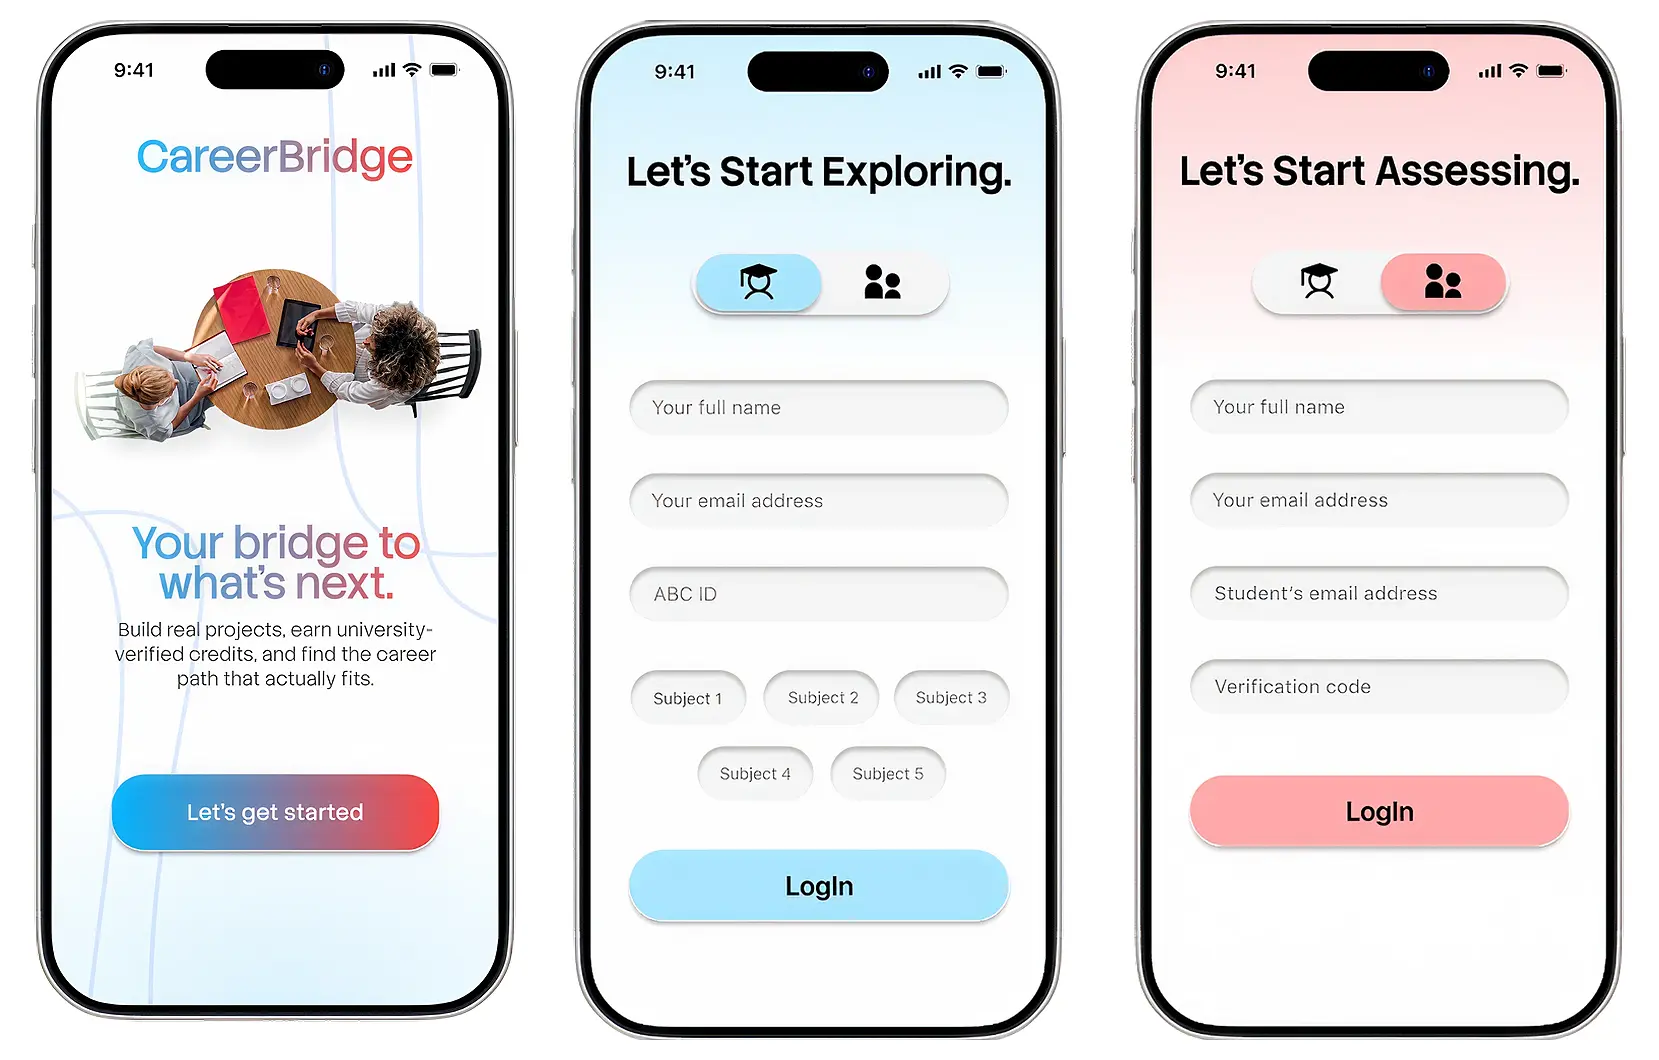
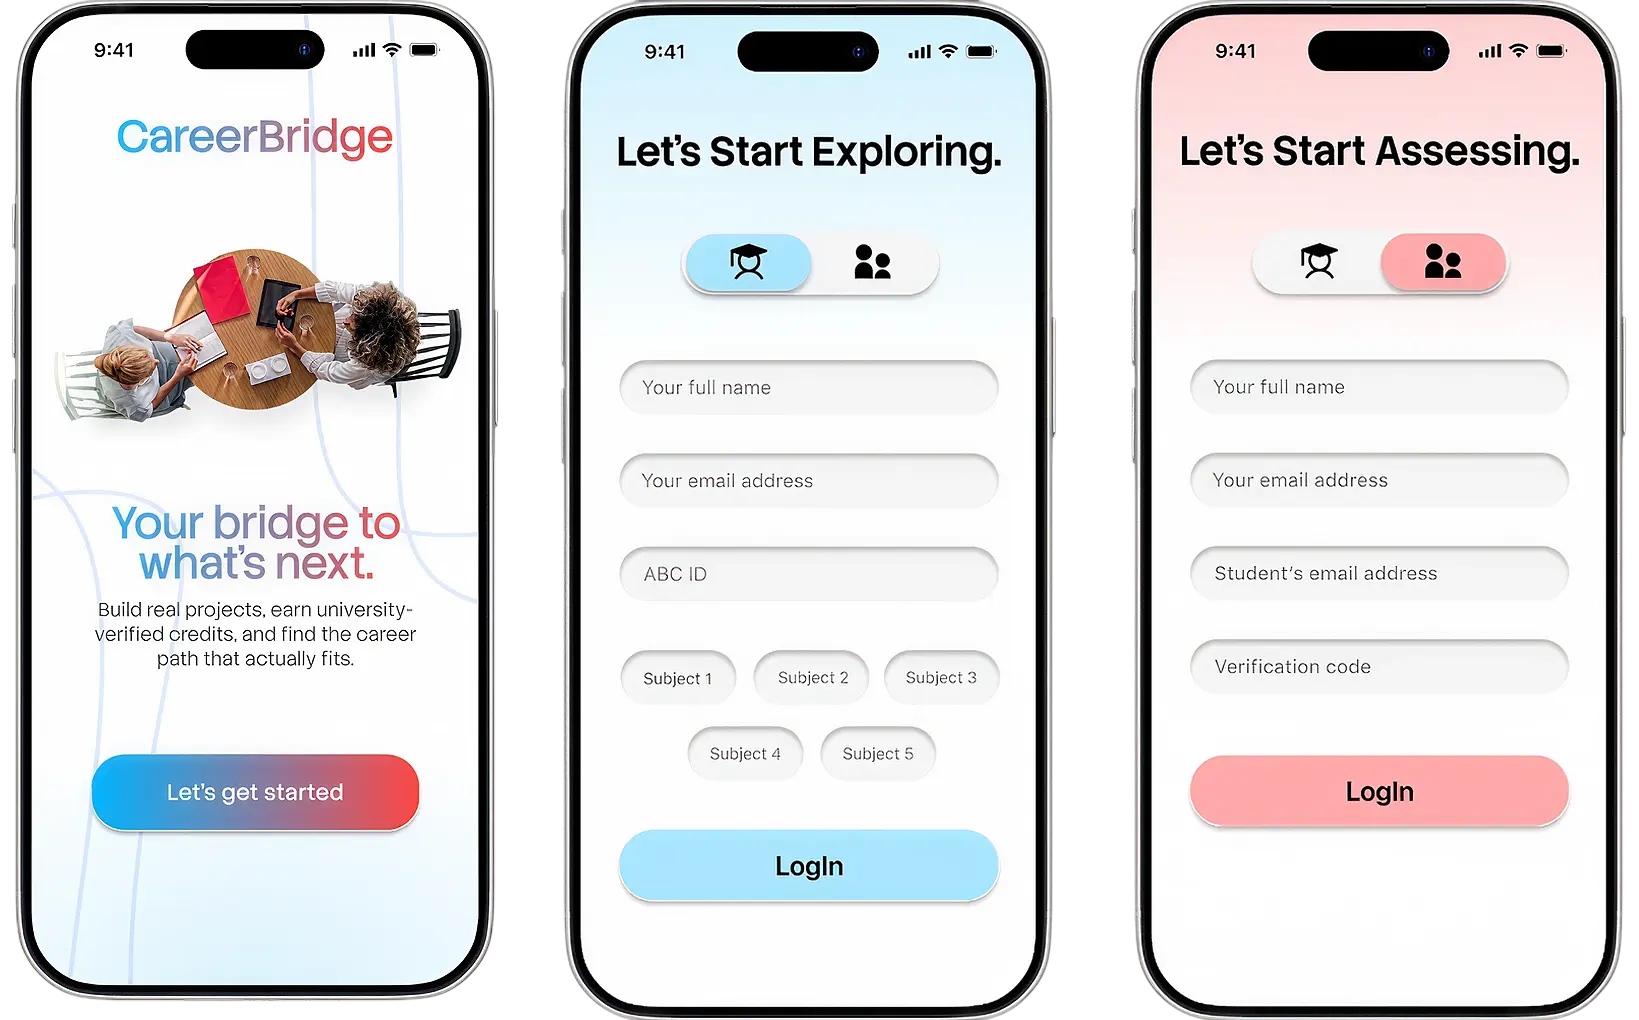
Fix onboarding color collision, de-Qurate the core-mechanism border, resize single phones
The onboarding composite had a white gap panel sitting between a
white, a blue, and a pink screen, reading as three competing colors
instead of one presentation. Recomposited with a transparent
background so the card-warm figure tint shows through uniformly
instead.

The core-mechanism callout used Qurate's exact full box-outline
treatment. Replaced it with a top accent bar for this project,
matching the quote-cards' own left-bar accent language instead of
reusing another case study's mark.

Single-phone screens (pathways, curriculum, progress, parent) were
stretched to fill the full column like desktop screenshots. Capped
them to match the per-phone size in the three-up composite (~260px)
so content stays legible at a consistent scale across the section.

Claude-Session: https://claude.ai/code/session_01ABoxSrGLR5kJVAU4Q3hr6i

diff --git a/src/content/work/conversations-before-college.md b/src/content/work/conversations-before-college.md
@@ -138,14 +138,14 @@ The first screen after login isn't a subject picker. It's eight situational ques
 <figcaption>A quick run through CareerBridge end to end before the screen-by-screen breakdown below.</figcaption>
 </figure>
 
-<figure class="figure--feature">
+<figure class="figure--core">
 <p class="figure-eyebrow">The core mechanism</p>
 <img src="/images/conversations/app-onboarding.webp" alt="CareerBridge onboarding: the welcome screen, and the dual-access login screens for students (Exploring) and parents (Assessing)" />
 <figcaption>Dual access from the first screen. A student logs in to explore; a parent logs in to a different view entirely, built to assess, not control.</figcaption>
 </figure>
 
 <figure>
-<img src="/images/conversations/app-pathways.webp" alt="CareerBridge pathway results screen showing four broad industry pathways: Product Engineering & Design, Digital Systems & UX Strategy, Technology & Interactive Innovation, and Strategic Service Design" />
+<img class="figure-img--phone" src="/images/conversations/app-pathways.webp" alt="CareerBridge pathway results screen showing four broad industry pathways: Product Engineering & Design, Digital Systems & UX Strategy, Technology & Interactive Innovation, and Strategic Service Design" />
 <figcaption>What the eight questions produce: broad industry pathways, not a single forced major. A starting point for the 90 days, not a verdict.</figcaption>
 </figure>
 
@@ -155,17 +155,17 @@ The first screen after login isn't a subject picker. It's eight situational ques
 </figure>
 
 <figure>
-<img src="/images/conversations/app-curriculum.webp" alt="CareerBridge curriculum tracking screen showing completed and upcoming weeks with credit values per task" />
+<img class="figure-img--phone" src="/images/conversations/app-curriculum.webp" alt="CareerBridge curriculum tracking screen showing completed and upcoming weeks with credit values per task" />
 <figcaption>Completed weeks collapse, the current week expands. Each task underneath carries its own credit value, so progress reads as a build-up, not a checklist.</figcaption>
 </figure>
 
 <figure>
-<img src="/images/conversations/app-progress.webp" alt="CareerBridge student progress screen showing weekly engagement hours, total ABC credits, average mentor rating, and a portfolio link" />
+<img class="figure-img--phone" src="/images/conversations/app-progress.webp" alt="CareerBridge student progress screen showing weekly engagement hours, total ABC credits, average mentor rating, and a portfolio link" />
 <figcaption>The student's own view: hours logged, credits earned, mentor ratings, a portfolio building itself in the background.</figcaption>
 </figure>
 
 <figure>
-<img src="/images/conversations/app-parent.webp" alt="CareerBridge parent dashboard showing verified ABC credits, project consistency, mentor sessions, and program investment details" />
+<img class="figure-img--phone" src="/images/conversations/app-parent.webp" alt="CareerBridge parent dashboard showing verified ABC credits, project consistency, mentor sessions, and program investment details" />
 <figcaption>The parent's view of the same data: verified credits, consistency score, engagement level. The anxious check-in becomes a number the parent can actually read.</figcaption>
 </figure>
 
